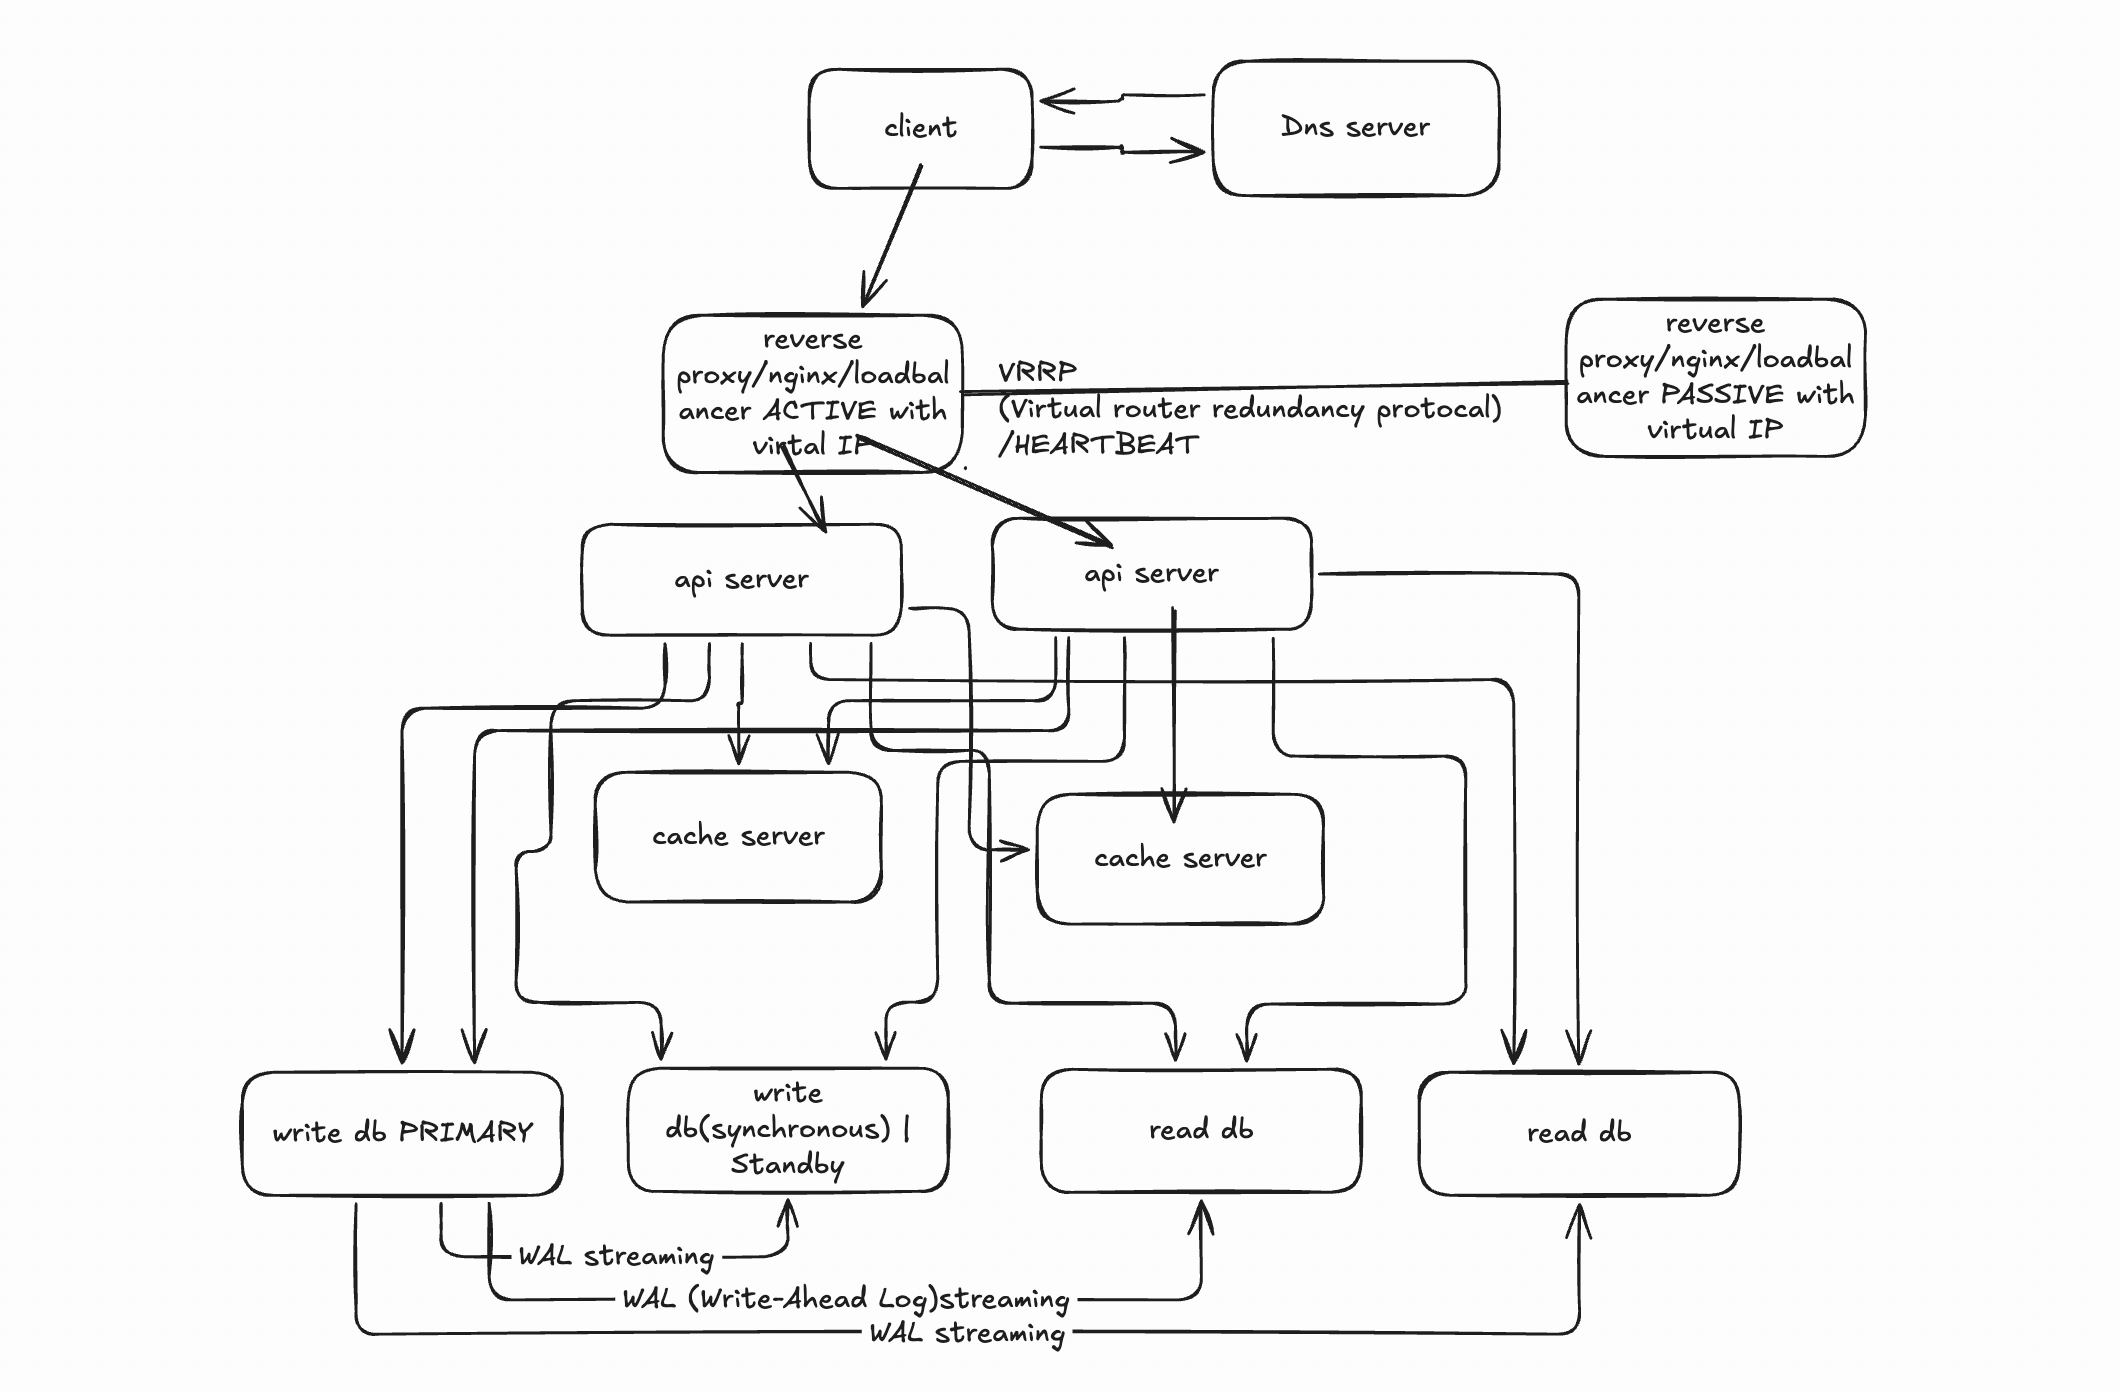
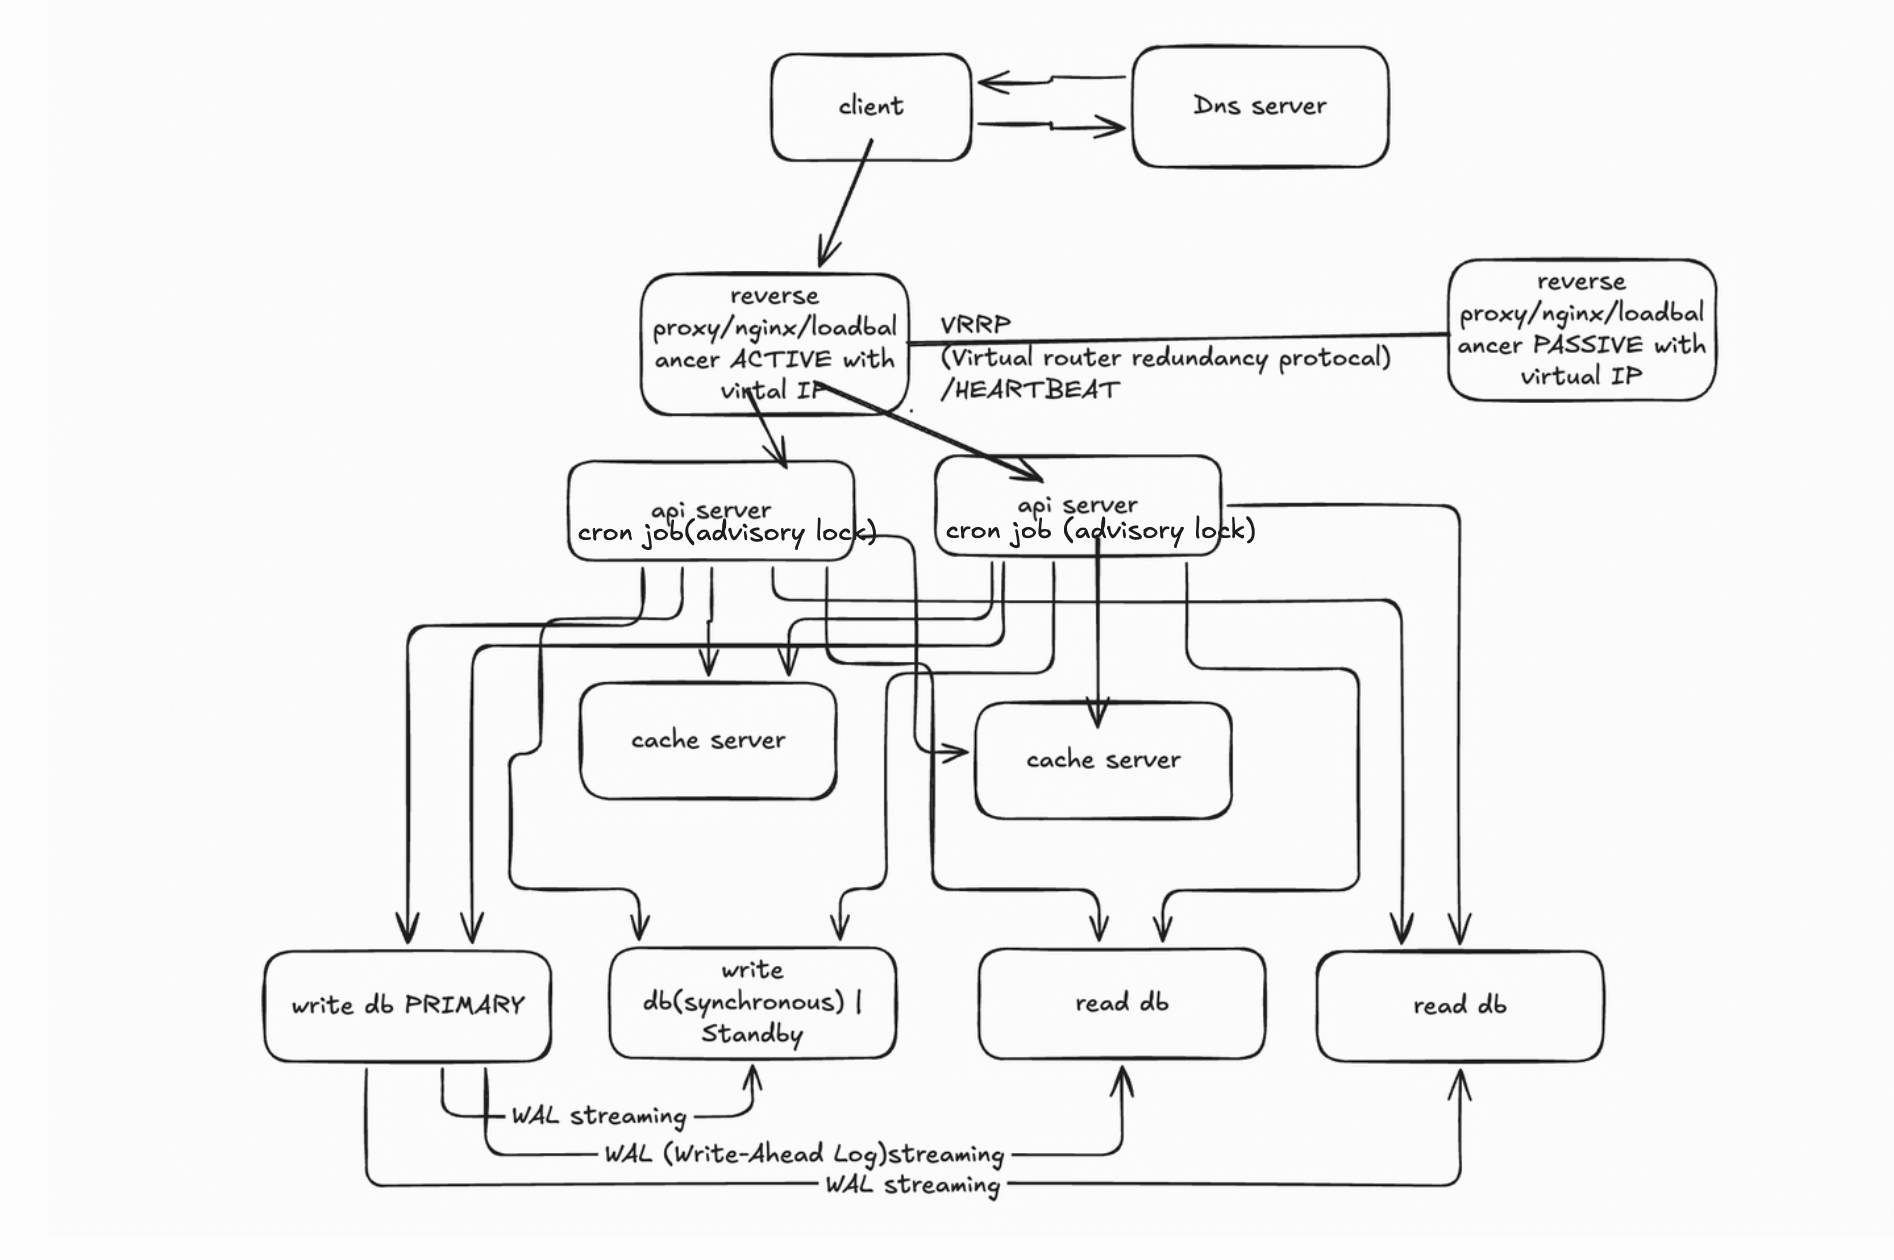
URL shortener: new diagram (cleanup cron), cleanup job section, phase-1 endpoint details from notes

Changed region(s): [[0.1246, 0.031, 0.9034, 0.9595]]

diff --git a/01-url-shortener/design.md b/01-url-shortener/design.md
@@ -22,18 +22,18 @@
 | Reads (peak) | 10M × 10 / 2,592,000 s | ≈ 39 / s |
 | Rows over 5 years | 1M × 12 × 5 | 60M |
 | Code length | 64⁴ = 16.7M < 60M · 64⁵ = 1.07B ≥ 60M | **5 chars** (counter starts at 64⁴ so every code is exactly 5) |
-| Row size | id 8 B + long_url ~1,024 B + expires_at 8 B | ≈ 1,040 B |
+| Row size | id 8 B + long_url 1,024 B (conservative; avg URL ~100 B) + expires_at 8 B | ≈ 1,040 B |
 | Data | 60M × 1,040 B | ≈ 62 GB |
 | PK index | 60M × ~32 B | ≈ 1.9 GB → fits in RAM |
-| Disk | data + index + WAL/bloat headroom | ~200 GB |
+| Disk | data + index + WAL/bloat headroom | ~200 GB (Phase 3 → revisit / shard) |
 
 `short_code` is **not stored** — it is computed from `id` (encode) and back (decode).
 
 ## 3. API
 
-**`GET /{short_code}`** → `302` + `Location: <long_url>` · `404` not found · `410` expired/deleted · `500` · `503`
+**`GET /{short_code}`** → `302` temporary redirect + `Location: <long_url>` (no browser cache, so every click reaches us) · `404` not found · `410` expired/deleted · `500` · `503`
 
-**`POST /api/v1/urls`** body `{long_url, expires_at}` → `201 {short_url}` · `422` validation · `429` rate limited · `500` · `503`
+**`POST /api/v1/urls`** body `{long_url, expires_at}` → `201 {short_url}` + header `Location: /{code}` · `422` validation · `429` rate limited · `500` · `503`
 
 **`POST /api/v1/login`** form `{email, password}` → `200 {access_token: <jwt>, token_type: "bearer"}` · `401` wrong credentials · `422` · `429` · `500` · `503`
 
@@ -60,7 +60,7 @@
 
 ![URL shortener HLD](diagram.png)
 
-*Version: 6 Nov 2026 (morning). TODO: replace with the later redraw (cleanup cron) + add `diagram.excalidraw` source.*
+*Version: 6 Nov 2026 (afternoon, with cleanup cron + advisory lock). TODO: add `diagram.excalidraw` source.*
 
 Client → (CDN) → LB pair (VRRP) → stateless API servers (nginx round-robin) → Redis Cluster → Postgres primary + sync standby + async read replicas (Patroni + 3-node etcd). Cleanup cron on API servers.
 
@@ -100,6 +100,16 @@ Caveat: sequential ids → guessable codes. Fix if needed: reversible scramble (
 Cache is stateful → route by key, not round-robin. `hash(key) % N` breaks when N changes (most keys move → miss storm on DB).
 → **Redis Cluster**: 16,384 hash slots, the client library routes each key; adding a node moves only some slots.
 Cache-aside: lazy refill on miss. A cache node down = misses, not data loss.
+
+### Cleanup job (expired links)
+- Nightly: delete where `expires_at < now()` (`expires_at` = created + 5 years).
+- Never one big `DELETE` → WAL storm, replica lag, locks, bloat.
+- Batches: one `DELETE` per 5k-id range → commit → sleep (~33k expire per night ≈ 7 queries).
+- Start from `SELECT min(id)`: ids are sequential and lifetime is fixed, so expired rows = lowest ids.
+- Better: partition by month → `DROP` the oldest partition.
+- Redis: TTL = `expires_at` · redirect checks `expires_at` → `410`.
+- One runner only: `pg_try_advisory_lock(42)` on all servers, or a K8s CronJob. Missing a night is OK (+ alert).
+- Advisory lock beats a `job_running` flag: no race, auto-released if the process crashes.
 
 ### High availability
 - **Load balancers:** active/passive pair sharing a virtual IP (VRRP heartbeat). Scale up → active-active + DNS round-robin.
